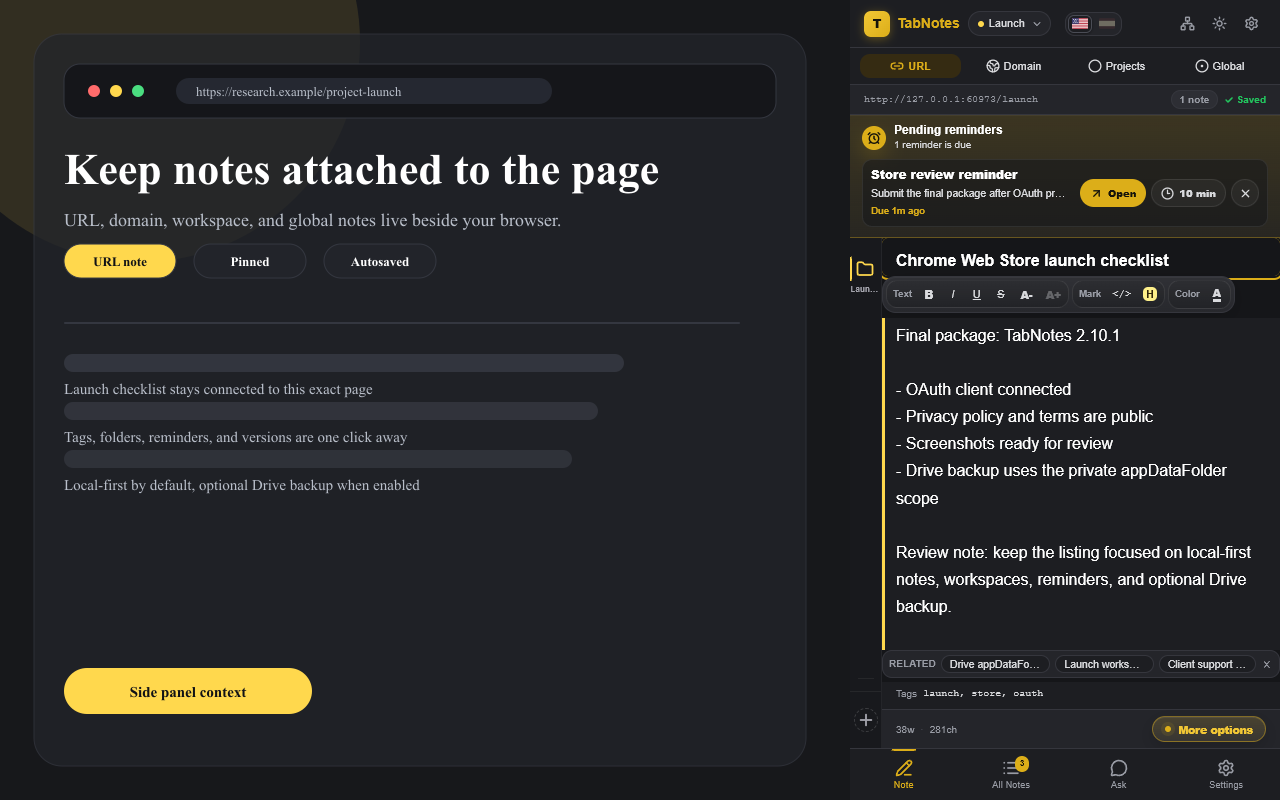
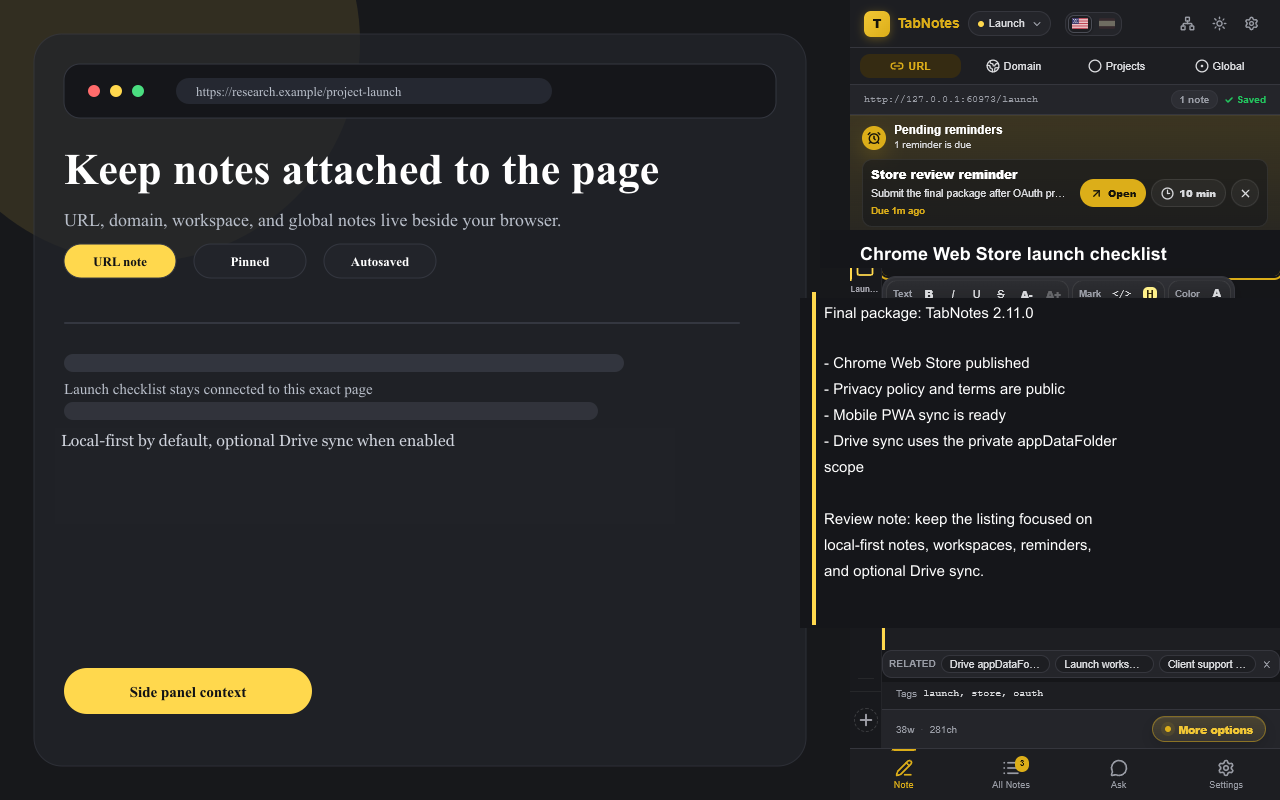
Publish TabNotes 2.11.0 site

diff --git a/index.html b/index.html
@@ -6,13 +6,13 @@
     <title>TabNotes - Contextual notes for Chrome</title>
     <meta
       name="description"
-      content="TabNotes is a published Chrome extension for local-first contextual notes, workspaces, reminders, and optional Google Drive backup."
+      content="TabNotes is a published Chrome extension for local-first contextual notes, workspaces, reminders, mobile PWA access, and optional Google Drive sync."
     />
     <meta name="robots" content="index,follow" />
     <meta property="og:title" content="TabNotes - Notes that know where you are" />
     <meta
       property="og:description"
-      content="Capture notes by URL, domain, workspace, or global context. Local-first, private by design, with optional Google Drive backup."
+      content="Capture notes by URL, domain, workspace, or global context. Local-first, private by design, with optional Google Drive sync."
     />
     <meta property="og:image" content="/assets/screenshots/editor-url-note.png" />
     <link rel="icon" href="/assets/icon512.png" />
@@ -73,7 +73,7 @@
 
       <section class="status-strip" aria-label="Release facts">
         <article>
-          <span>2.10.2</span>
+          <span>2.11.0</span>
           <p data-i18n="facts.version">Current public version</p>
         </article>
         <article>
@@ -86,7 +86,7 @@
         </article>
         <article>
           <span>Drive appData</span>
-          <p data-i18n="facts.drive">Optional private Google Drive backup</p>
+          <p data-i18n="facts.drive">Optional private Google Drive sync</p>
         </article>
       </section>
 
@@ -133,8 +133,8 @@
             <figcaption data-i18n="screens.search">Search across every note, title, tag, and scope.</figcaption>
           </figure>
           <figure class="feature-shot">
-            <img src="/assets/screenshots/drive-backup.png" alt="Google Drive backup settings" />
-            <figcaption data-i18n="screens.drive">Optional Google Drive backup uses the limited app data folder.</figcaption>
+            <img src="/assets/screenshots/drive-backup.png" alt="Google Drive sync settings" />
+            <figcaption data-i18n="screens.drive">Optional Google Drive sync uses the limited app data folder.</figcaption>
           </figure>
           <figure class="feature-shot">
             <img src="/assets/screenshots/reminders.png" alt="TabNotes reminders" />
@@ -155,7 +155,7 @@
         <div class="trust-copy">
           <p data-i18n="privacy.body">
             Notes are stored locally in Chrome by default. Export and restore use JSON files you
-            control. If you enable Drive backup, the extension talks directly to Google Drive using
+            control. If you enable Drive sync, TabNotes talks directly to Google Drive using
             the limited drive.appdata scope.
           </p>
           <div class="trust-actions">
@@ -167,7 +167,7 @@
     </main>
 
     <footer class="site-footer">
-      <span data-i18n="footer.release">TabNotes v2.10.2 - Published for Chrome</span>
+      <span data-i18n="footer.release">TabNotes v2.11.0 - Published for Chrome</span>
       <span data-i18n="footer.license">MIT licensed, local-first note taking</span>
     </footer>
 
@@ -186,7 +186,7 @@
           'facts.version': 'Current public version',
           'facts.mv3': 'Store-safe Chrome extension',
           'facts.local': 'Notes stay in your browser by default',
-          'facts.drive': 'Optional private Google Drive backup',
+          'facts.drive': 'Optional private Google Drive sync',
           'features.eyebrow': 'Built around your browsing context',
           'features.title': 'The note is already filed before you start writing.',
           'features.url.title': 'URL notes',
@@ -204,16 +204,16 @@
           'screens.eyebrow': 'Product views',
           'screens.title': 'A focused side panel for writing, finding, and restoring notes.',
           'screens.search': 'Search across every note, title, tag, and scope.',
-          'screens.drive': 'Optional Google Drive backup uses the limited app data folder.',
+          'screens.drive': 'Optional Google Drive sync uses the limited app data folder.',
           'screens.reminders': 'Reminders notify you with browser alerts and sound.',
           'screens.workspaces': 'Workspaces keep client, project, and task notes separated.',
           'privacy.eyebrow': 'Private by design',
           'privacy.title': 'No TabNotes account. No TabNotes server. No tracking.',
           'privacy.body':
-            'Notes are stored locally in Chrome by default. Export and restore use JSON files you control. If you enable Drive backup, the extension talks directly to Google Drive using the limited drive.appdata scope.',
+            'Notes are stored locally in Chrome by default. Export and restore use JSON files you control. If you enable Drive sync, TabNotes talks directly to Google Drive using the limited drive.appdata scope.',
           'privacy.policy': 'Read privacy policy',
           'privacy.terms': 'Read terms',
-          'footer.release': 'TabNotes v2.10.2 - Published for Chrome',
+          'footer.release': 'TabNotes v2.11.0 - Published for Chrome',
           'footer.license': 'MIT licensed, local-first note taking',
         },
         es: {
@@ -229,7 +229,7 @@
           'facts.version': 'Version publica actual',
           'facts.mv3': 'Extension Chrome lista para la tienda',
           'facts.local': 'Tus notas quedan en el navegador por defecto',
-          'facts.drive': 'Backup privado opcional en Google Drive',
+          'facts.drive': 'Sync privado opcional en Google Drive',
           'features.eyebrow': 'Pensado para el contexto donde trabajas',
           'features.title': 'La nota ya esta organizada antes de empezar a escribir.',
           'features.url.title': 'Notas por URL',
@@ -247,16 +247,16 @@
           'screens.eyebrow': 'Vistas del producto',
           'screens.title': 'Un panel lateral enfocado para escribir, buscar y restaurar notas.',
           'screens.search': 'Busca en notas, titulos, etiquetas y ambitos.',
-          'screens.drive': 'El backup opcional de Google Drive usa la carpeta privada de datos de la app.',
+          'screens.drive': 'El sync opcional de Google Drive usa la carpeta privada de datos de la app.',
           'screens.reminders': 'Los recordatorios muestran alertas del navegador y sonido.',
           'screens.workspaces': 'Los espacios separan notas de clientes, proyectos y tareas.',
           'privacy.eyebrow': 'Privado por diseno',
           'privacy.title': 'Sin cuenta TabNotes. Sin servidor TabNotes. Sin tracking.',
           'privacy.body':
-            'Las notas se guardan localmente en Chrome por defecto. Exportar y restaurar usa archivos JSON bajo tu control. Si activas Drive, la extension habla directamente con Google Drive usando el scope limitado drive.appdata.',
+            'Las notas se guardan localmente en Chrome por defecto. Exportar y restaurar usa archivos JSON bajo tu control. Si activas Drive, TabNotes habla directamente con Google Drive usando el scope limitado drive.appdata.',
           'privacy.policy': 'Leer politica de privacidad',
           'privacy.terms': 'Leer terminos',
-          'footer.release': 'TabNotes v2.10.2 - Publicado para Chrome',
+          'footer.release': 'TabNotes v2.11.0 - Publicado para Chrome',
           'footer.license': 'Licencia MIT, notas local-first',
         },
       };

diff --git a/privacy/index.html b/privacy/index.html
@@ -29,8 +29,9 @@
       <p class="updated">Effective date: June 20, 2026</p>
       <h1>Privacy Policy</h1>
       <p class="lead">
-        TabNotes is a local-first Chrome extension. We collect no personal data. Your notes stay on
-        your device unless you explicitly enable optional Google Drive backup.
+        TabNotes is a local-first Chrome extension and companion mobile PWA. We collect no personal
+        data. Your notes stay on your device unless you explicitly enable optional Google Drive
+        sync.
       </p>
 
       <section>
@@ -51,15 +52,15 @@
       </section>
 
       <section>
-        <h2>Optional Google Drive backup</h2>
+        <h2>Optional Google Drive sync</h2>
         <p>
           If you choose to connect Google Drive, TabNotes uses Chrome's identity API and the Google
-          Drive <code>drive.appdata</code> scope to create or update a backup file in your private
+          Drive <code>drive.appdata</code> scope to create or update a sync file in your private
           Google Drive app data folder.
         </p>
         <p>
-          The backup is transferred directly between the extension and Google Drive. The TabNotes
-          developer cannot access your Google account, your notes, or your backup file.
+          The sync data is transferred directly between TabNotes and Google Drive. The TabNotes
+          developer cannot access your Google account, your notes, or your sync file.
         </p>
       </section>
 
@@ -77,13 +78,13 @@
           <dt>contextMenus</dt>
           <dd>Adds "Clip selection to TabNotes" when the user selects text and uses the context menu.</dd>
           <dt>identity</dt>
-          <dd>Allows optional Google sign-in for Google Drive backup.</dd>
+          <dd>Allows optional Google sign-in for Google Drive sync.</dd>
           <dt>offscreen</dt>
           <dd>Plays local reminder audio when a note reminder fires.</dd>
           <dt>alarms and notifications</dt>
           <dd>Schedules reminders and displays user-requested reminder notifications.</dd>
           <dt>https://www.googleapis.com/*</dt>
-          <dd>Calls Google Drive APIs only when the user enables Drive backup.</dd>
+          <dd>Calls Google Drive APIs only when the user enables Drive sync.</dd>
         </dl>
       </section>
 
@@ -99,7 +100,7 @@
         <h2>Third-party services</h2>
         <p>
           TabNotes does not include third-party analytics, advertising, telemetry, or tracking
-          services. Google Drive is used only if you opt in to Drive backup.
+          services. Google Drive is used only if you opt in to Drive sync.
         </p>
       </section>
 

diff --git a/terms/index.html b/terms/index.html
@@ -6,7 +6,7 @@
     <title>Terms of Service - TabNotes</title>
     <meta
       name="description"
-      content="TabNotes terms of service for the Chrome extension and optional Google Drive backup feature."
+      content="TabNotes terms of service for the Chrome extension, companion mobile PWA, and optional Google Drive sync feature."
     />
     <meta name="robots" content="index,follow" />
     <link rel="icon" href="/assets/icon512.png" />
@@ -29,15 +29,15 @@
       <p class="updated">Effective date: June 20, 2026</p>
       <h1>Terms of Service</h1>
       <p class="lead">
-        These terms apply to your use of the TabNotes Chrome extension and its optional Google Drive
-        backup feature.
+        These terms apply to your use of the TabNotes Chrome extension, companion mobile PWA, and
+        optional Google Drive sync feature.
       </p>
 
       <section>
         <h2>Use of TabNotes</h2>
         <p>
           TabNotes is provided as a productivity tool for creating, organizing, exporting, and
-          optionally backing up personal notes. You are responsible for the content you create and
+          optionally syncing personal notes. You are responsible for the content you create and
           store with the extension.
         </p>
       </section>
@@ -46,16 +46,16 @@
         <h2>Local-first storage</h2>
         <p>
           TabNotes stores data locally by default. You are responsible for maintaining backups of
-          important information. The extension includes export and optional Google Drive backup
+          important information. TabNotes includes export and optional Google Drive sync
           features to help with this.
         </p>
       </section>
 
       <section>
-        <h2>Optional Google Drive backup</h2>
+        <h2>Optional Google Drive sync</h2>
         <p>
-          If you enable Google Drive backup, you authorize TabNotes to create and update backup data
-          in your Google Drive app data folder. You may disconnect Google Drive backup from TabNotes
+          If you enable Google Drive sync, you authorize TabNotes to create and update sync data in
+          your Google Drive app data folder. You may disconnect Google Drive sync from TabNotes
           at any time.
         </p>
       </section>

diff --git a/README.md b/README.md
@@ -5,6 +5,7 @@ Static public pages for Google OAuth and Chrome Web Store review.
 Production target:
 
 - https://tabnotes.atlaspcsupport.com/
+- https://tabnotes.atlaspcsupport.com/app/ (mobile PWA, built from `apps/web`)
 - https://tabnotes.atlaspcsupport.com/privacy/
 - https://tabnotes.atlaspcsupport.com/terms/
 
@@ -13,3 +14,5 @@ Search Console verification file:
 - https://tabnotes.atlaspcsupport.com/google8ef5d404fc100dff.html
 
 Deploy the folder contents directly to the `gh-pages` branch used by GitHub Pages.
+Build the PWA separately from `apps/web` with `VITE_GOOGLE_CLIENT_ID` configured, then publish the
+generated web bundle under `/app/` on the same domain.